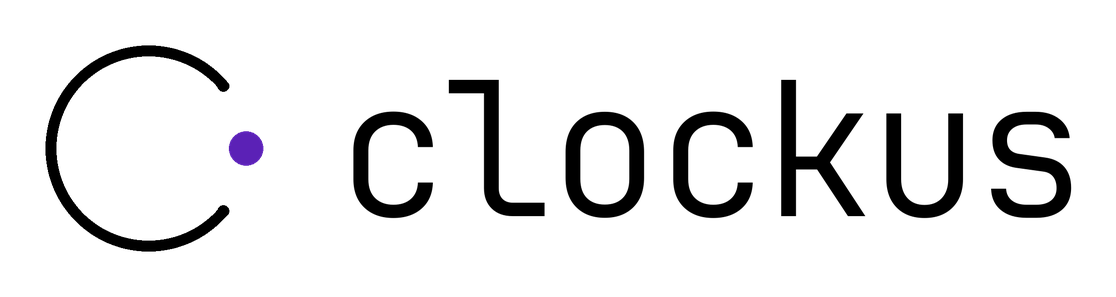
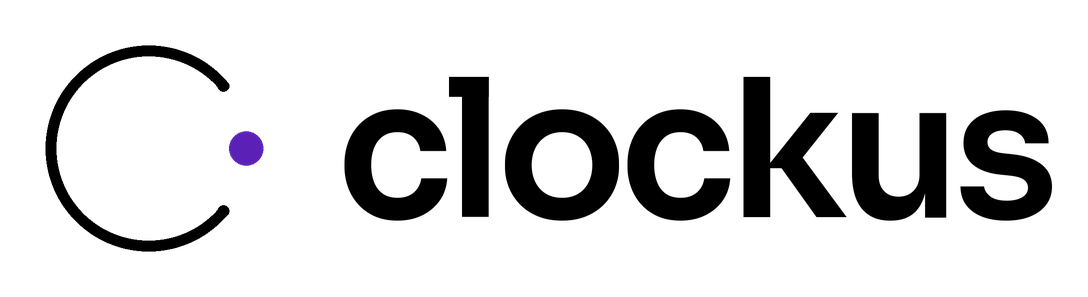
Add files via upload

diff --git a/script.js b/script.js
@@ -137,18 +137,27 @@ statsBtn.addEventListener('click', () => showTab('stats'));
 // ---------- Appearance settings ----------
 const DEFAULT_ACCENT = '#5b21b6';
 const WEIGHT_NAMES = { 100: 'Thin', 200: 'ExtraLight', 300: 'Light', 400: 'Regular', 500: 'Medium', 600: 'SemiBold', 700: 'Bold', 800: 'ExtraBold', 900: 'Black', 1000: 'ExtraBlack' };
+const TEXT_WEIGHTS = [100, 200, 300, 400, 500, 600, 700, 800];
 const FONT_WEIGHTS = {
+    sora: [100, 200, 300, 400, 500, 600, 700, 800],
     inter: [100, 200, 300, 400, 500, 600, 700, 800, 900],
     dmsans: [100, 200, 300, 400, 500, 600, 700, 800, 900, 1000]
 };
-const DEFAULT_WEIGHTS = { inter: 700, dmsans: 400 };
+const DEFAULT_WEIGHTS = { sora: 500, inter: 700, dmsans: 400 };
+const savedUi = store.get('ui', {});
+if (savedUi.v !== 2) {                      // Sora is the new main font: the old default clock font moves to it
+    if (savedUi.font === 'mono') savedUi.font = 'sora';
+    savedUi.v = 2;
+}
 const ui = Object.assign({
-    theme: 'dark', format: '24', seconds: true, font: 'mono', accent: DEFAULT_ACCENT,
+    theme: 'dark', format: '24', seconds: true, font: 'sora', accent: DEFAULT_ACCENT, textWeight: 300, v: 2,
     // Animations follow the system setting for reduced motion until the user chooses
     animations: !(window.matchMedia && window.matchMedia('(prefers-reduced-motion: reduce)').matches)
-}, store.get('ui', {}));
+}, savedUi);
 if (typeof ui.animations !== 'boolean') ui.animations = true;
-if (!['mono', 'inter', 'dmsans'].includes(ui.font)) ui.font = 'mono';
+if (!['sora', 'mono', 'inter', 'dmsans'].includes(ui.font)) ui.font = 'sora';
+if (!TEXT_WEIGHTS.includes(Number(ui.textWeight))) ui.textWeight = 300;
+ui.textWeight = Number(ui.textWeight);
 ui.weights = { ...DEFAULT_WEIGHTS, ...(ui.weights || {}) };
 for (const f of Object.keys(FONT_WEIGHTS)) {
     if (!FONT_WEIGHTS[f].includes(Number(ui.weights[f]))) ui.weights[f] = DEFAULT_WEIGHTS[f];
@@ -159,6 +168,8 @@ const themeSelect = $('theme-select');
 const formatSelect = $('format-select');
 const secondsSwitch = $('seconds-switch');
 const fontSelect = $('font-select');
+const textWeightSelect = $('text-weight-select');
+textWeightSelect.replaceChildren(...TEXT_WEIGHTS.map((w) => new Option(`${WEIGHT_NAMES[w]} (${w})`, String(w))));
 const weightRow = $('weight-row');
 const weightSelect = $('weight-select');
 const animationsSwitch = $('animations-switch');
@@ -183,6 +194,8 @@ function applyUi() {
     formatSelect.value = ui.format;
     secondsSwitch.checked = ui.seconds;
     fontSelect.value = ui.font;
+    textWeightSelect.value = String(ui.textWeight);
+    document.documentElement.style.setProperty('--w', String(ui.textWeight));
     const weights = FONT_WEIGHTS[ui.font];
     weightRow.hidden = !weights;
     if (weights) {
@@ -222,6 +235,7 @@ themeSelect.addEventListener('change', () => changeUi('theme', themeSelect.value
 formatSelect.addEventListener('change', () => changeUi('format', formatSelect.value));
 secondsSwitch.addEventListener('change', () => changeUi('seconds', secondsSwitch.checked));
 fontSelect.addEventListener('change', () => changeUi('font', fontSelect.value));
+textWeightSelect.addEventListener('change', () => changeUi('textWeight', Number(textWeightSelect.value)));
 weightSelect.addEventListener('change', () => changeUi('weights', { ...ui.weights, [ui.font]: Number(weightSelect.value) }));
 animationsSwitch.addEventListener('change', () => changeUi('animations', animationsSwitch.checked));
 swatchBtns.forEach((b) => b.addEventListener('click', () => changeUi('accent', b.dataset.color)));
@@ -1170,7 +1184,10 @@ function applyRemoteSettings(data) {
         ui.theme = data.ui.theme === 'light' ? 'light' : 'dark';
         ui.format = data.ui.format === '12' ? '12' : '24';
         ui.seconds = data.ui.seconds !== false;
-        ui.font = ['inter', 'dmsans'].includes(data.ui.font) ? data.ui.font : 'mono';
+        // saves from before Sora still carry the old default clock font: treat that as the new default
+        const remoteFont = (data.ui.v !== 2 && data.ui.font === 'mono') ? 'sora' : data.ui.font;
+        ui.font = ['sora', 'mono', 'inter', 'dmsans'].includes(remoteFont) ? remoteFont : 'sora';
+        if (TEXT_WEIGHTS.includes(Number(data.ui.textWeight))) ui.textWeight = Number(data.ui.textWeight);
         for (const f of Object.keys(FONT_WEIGHTS)) {
             const w = Number(data.ui.weights && data.ui.weights[f]);
             if (FONT_WEIGHTS[f].includes(w)) ui.weights[f] = w;

diff --git a/styles.css b/styles.css
@@ -8,7 +8,10 @@
     --panel: #0a0a0a;
     --field: #000;
     --hover: rgba(255, 255, 255, 0.1);
-    --mono: 'JetBrains Mono', 'Courier New', monospace;
+    --font: 'Sora', 'Helvetica Neue', Arial, sans-serif;
+    --w: 300;                                  /* general text weight, set from the settings */
+    --w-lo: clamp(100, calc(var(--w) - 100), 800);
+    --w-hi: clamp(100, calc(var(--w) + 100), 800);
     --p0: #ffffff;
     --p1: #d6c8ed;
     --p2: #ad90da;
@@ -28,6 +31,13 @@
     --field: #fff;
     --hover: rgba(0, 0, 0, 0.06);
     color-scheme: light;
+}
+
+:root[data-font="mono"] .clock,
+:root[data-font="mono"] .realtime {
+    font-family: 'JetBrains Mono', 'Courier New', monospace;
+    font-weight: 200;
+    letter-spacing: -0.04em;
 }
 
 :root[data-font="inter"] .clock,
@@ -53,8 +63,8 @@ body {
     padding: 0 20px 48px;
     background: var(--bg);
     color: var(--text);
-    font-family: var(--mono);
-    font-weight: 300;
+    font-family: var(--font);
+    font-weight: var(--w);
     display: flex;
     flex-direction: column;
     align-items: center;
@@ -66,7 +76,8 @@ body {
     outline-offset: 3px;
 }
 
-button { font-family: var(--mono); cursor: pointer; }
+button { font-family: var(--font); cursor: pointer; }
+button, input, select { font-weight: inherit; }
 
 /* ---------- Nav ---------- */
 .nav {
@@ -98,8 +109,8 @@ button { font-family: var(--mono); cursor: pointer; }
 /* ---------- Clock ---------- */
 .clock {
     font-size: clamp(4.5rem, 22vw, 10rem);
-    font-weight: 200;
-    letter-spacing: -0.04em;
+    font-weight: var(--clock-weight, 500);
+    letter-spacing: -0.045em;
     font-variant-numeric: tabular-nums;
     line-height: 1;
     margin: clamp(36px, 9vh, 80px) 0 28px;
@@ -111,8 +122,8 @@ body[data-mode="break"] .clock { color: var(--muted); }
 .realtime {
     display: none;
     font-size: max(3rem, min(14rem, calc((100vw - 40px) / var(--fit, 5.4))));
-    font-weight: 200;
-    letter-spacing: -0.04em;
+    font-weight: var(--clock-weight, 500);
+    letter-spacing: -0.045em;
     font-variant-numeric: tabular-nums;
     line-height: 1;
 }
@@ -122,7 +133,7 @@ body[data-mode="break"] .clock { color: var(--muted); }
 .rt-ampm {
     margin-left: 0.6em;
     font-size: 0.2em;
-    font-weight: 400;
+    font-weight: var(--w-hi);
     letter-spacing: 0;
     color: var(--muted);
 }
@@ -461,14 +472,14 @@ body[data-tab="focus"] .stage { width: auto; max-width: 100%; }
     margin-bottom: 28px;
 }
 
-.panel h2 { margin: 0; font-size: 1rem; font-weight: 400; }
+.panel h2 { margin: 0; font-size: 1rem; font-weight: var(--w-hi); }
 
 .panel-section { margin-bottom: 28px; }
 
 .panel-section h3 {
     margin: 0 0 12px;
     font-size: 0.75rem;
-    font-weight: 400;
+    font-weight: var(--w-hi);
     letter-spacing: 0.08em;
     color: var(--muted);
 }
@@ -656,7 +667,7 @@ kbd {
 .stat-value {
     margin: 6px 0;
     font-size: clamp(1.6rem, 7vw, 2.75rem);
-    font-weight: 200;
+    font-weight: var(--w-lo);
     letter-spacing: -0.04em;
     white-space: nowrap;
 }
@@ -871,7 +882,7 @@ kbd {
 
 .stat-unit {
     font-size: 0.875rem;
-    font-weight: 300;
+    font-weight: var(--w);
     letter-spacing: 0;
     color: var(--muted);
 }
@@ -966,7 +977,7 @@ body[data-tab="focus"] .settings { margin-top: 28px; }
     transition: color 0.2s;
 }
 
-.current-line b { font-weight: 400; color: var(--text); }
+.current-line b { font-weight: var(--w-hi); color: var(--text); }
 .current-line:hover { color: var(--text); }
 
 .cur-btn {
@@ -989,7 +1000,7 @@ body[data-tab="focus"] .settings { margin-top: 28px; }
 .cur-btn:disabled { opacity: 0.25; cursor: default; }
 .todo-item.current .cur-btn path { stroke: var(--text); }
 .todo-item.current .cur-btn circle { fill: var(--p3); }
-.todo-item.current label span { font-weight: 400; }
+.todo-item.current label span { font-weight: var(--w-hi); }
 
 /* ---------- Clean mode ---------- */
 .nav, #settings-btn, .below { transition: opacity 0.35s ease; }

diff --git a/app.html b/app.html
@@ -11,13 +11,14 @@
     <link rel="manifest" href="manifest.webmanifest">
     <link rel="preconnect" href="https://fonts.googleapis.com">
     <link rel="preconnect" href="https://fonts.gstatic.com" crossorigin>
-    <link href="https://fonts.googleapis.com/css2?family=JetBrains+Mono:wght@200;300;400&display=swap" rel="stylesheet">
+    <link href="https://fonts.googleapis.com/css2?family=Sora:wght@100..800&display=swap" rel="stylesheet">
+    <link href="https://fonts.googleapis.com/css2?family=JetBrains+Mono:wght@200&display=swap" rel="stylesheet">
     <link href="https://fonts.googleapis.com/css2?family=Inter:wght@100;200;300;400;500;600;700;800;900&display=swap" rel="stylesheet">
     <link href="https://fonts.googleapis.com/css2?family=DM+Sans:wght@100;200;300;400;500;600;700;800;900&display=swap" rel="stylesheet">
     <link href="https://fonts.googleapis.com/css2?family=DM+Sans:wght@1000&display=swap" rel="stylesheet">
-    <script>try{var u=JSON.parse(localStorage.getItem('ui')||'{}');document.documentElement.dataset.theme=u.theme||'dark';var f=(u.font==='inter'||u.font==='dmsans')?u.font:'mono';document.documentElement.dataset.font=f;var w=u.weights&&u.weights[f];if(w)document.documentElement.style.setProperty('--clock-weight',w);}catch(e){}</script>
+    <script>try{var u=JSON.parse(localStorage.getItem('ui')||'{}');var r=document.documentElement;r.dataset.theme=u.theme||'dark';var f=['sora','mono','inter','dmsans'].indexOf(u.font)>-1?u.font:'sora';if(u.v!==2&&u.font==='mono')f='sora';r.dataset.font=f;var w=u.weights&&u.weights[f];if(w)r.style.setProperty('--clock-weight',w);if(u.textWeight)r.style.setProperty('--w',u.textWeight);}catch(e){}</script>
     <script>window.addEventListener('error',function(e){var el=document.getElementById('build-info');var msg=' \u00b7 Error: '+e.message+' (line '+(e.lineno||'?')+')';if(el&&el.textContent.indexOf(msg)<0){el.textContent+=msg;}});</script>
-    <link rel="stylesheet" href="styles.css?v=19">
+    <link rel="stylesheet" href="styles.css?v=20">
 </head>
 <body data-mode="focus" data-tab="clock">
     <div class="nav">
@@ -149,9 +150,11 @@
                 <select id="format-select"><option value="24">24h</option><option value="12">12h</option></select></div>
             <div class="setting-row"><span>Show seconds</span>
                 <input type="checkbox" class="switch" id="seconds-switch" checked></div>
+            <div class="setting-row"><span>Text weight</span>
+                <select id="text-weight-select"></select></div>
             <div class="setting-row"><span>Clock font</span>
-                <select id="font-select"><option value="mono">Mono</option><option value="inter">Inter</option><option value="dmsans">DM Sans</option></select></div>
-            <div class="setting-row" id="weight-row" hidden><span>Weight</span>
+                <select id="font-select"><option value="sora">Sora</option><option value="mono">Mono</option><option value="inter">Inter</option><option value="dmsans">DM Sans</option></select></div>
+            <div class="setting-row" id="weight-row" hidden><span>Clock weight</span>
                 <select id="weight-select"></select></div>
             <div class="setting-row"><span>Animations</span>
                 <input type="checkbox" class="switch" id="animations-switch" checked></div>
@@ -202,10 +205,10 @@
             <div class="setting-row"><span>Clear all data</span>
                 <button class="preset" disabled>Clear</button></div>
         </section>
-        <p class="panel-note" id="build-info">Version 19</p>
+        <p class="panel-note" id="build-info">Version 20</p>
     </aside>
 
     <script src="https://cdn.jsdelivr.net/npm/@supabase/supabase-js@2.45.4/dist/umd/supabase.min.js"></script>
-    <script src="script.js?v=19"></script>
+    <script src="script.js?v=20"></script>
 </body>
 </html>

diff --git a/welcome.css b/welcome.css
@@ -6,7 +6,7 @@
     --line: #2b2b2b;
     --line-soft: #1c1c1c;
     --line-strong: #5a5a5a;
-    --mono: 'JetBrains Mono', 'Courier New', monospace;
+    --font: 'Sora', 'Helvetica Neue', Arial, sans-serif;
     --p0: #ffffff;
     --p1: #d6c8ed;
     --p2: #ad90da;
@@ -22,7 +22,7 @@ body {
     margin: 0;
     background: var(--bg);
     color: var(--text);
-    font-family: var(--mono);
+    font-family: var(--font);
     font-weight: 300;
     line-height: 1.5;
     -webkit-font-smoothing: antialiased;
@@ -48,7 +48,7 @@ ul { padding: 0; list-style: none; }
 }
 
 .topbar-inner { display: flex; justify-content: space-between; align-items: center; padding-top: 18px; padding-bottom: 18px; }
-.logo { display: flex; align-items: center; gap: 10px; font-size: 1.25rem; font-weight: 300; letter-spacing: -0.03em; line-height: 1; }
+.logo { display: flex; align-items: center; gap: 10px; font-size: 1.25rem; font-weight: 600; letter-spacing: -0.04em; line-height: 1; }
 .logo svg { flex: none; width: 26px; height: 26px; }
 .nav-links { display: flex; align-items: center; gap: 32px; font-size: 0.8125rem; }
 .nav-links .link { color: var(--muted); transition: color 0.2s; }
@@ -88,7 +88,7 @@ ul { padding: 0; list-style: none; }
 h1 {
     margin: 24px 0;
     font-size: clamp(2.6rem, 8vw, 4rem);
-    font-weight: 200;
+    font-weight: 300;
     letter-spacing: -0.04em;
     line-height: 1.05;
 }
@@ -123,8 +123,8 @@ h1 {
 .timer-clock {
     margin: 44px 0 28px;
     font-size: clamp(4.2rem, 20vw, 6.5rem);
-    font-weight: 200;
-    letter-spacing: -0.04em;
+    font-weight: 500;
+    letter-spacing: -0.045em;
     line-height: 1;
 }
 
@@ -149,7 +149,7 @@ h2 {
     margin: 16px 0 40px;
     max-width: 700px;
     font-size: clamp(1.8rem, 5vw, 2.25rem);
-    font-weight: 200;
+    font-weight: 300;
     letter-spacing: -0.03em;
     line-height: 1.2;
 }
@@ -178,7 +178,7 @@ h2 {
     border-radius: 16px;
 }
 
-.streak-n { font-size: 1.625rem; font-weight: 200; letter-spacing: -0.03em; }
+.streak-n { font-size: 1.625rem; font-weight: 400; letter-spacing: -0.03em; }
 .streak-sub { margin-top: 2px; font-size: 0.75rem; color: var(--muted); }
 
 .map-card {

diff --git a/index.html b/index.html
@@ -30,8 +30,8 @@
     </script>
     <link rel="preconnect" href="https://fonts.googleapis.com">
     <link rel="preconnect" href="https://fonts.gstatic.com" crossorigin>
-    <link href="https://fonts.googleapis.com/css2?family=JetBrains+Mono:wght@200;300;400&display=swap" rel="stylesheet">
-    <link rel="stylesheet" href="welcome.css?v=3">
+    <link href="https://fonts.googleapis.com/css2?family=Sora:wght@100..800&display=swap" rel="stylesheet">
+    <link rel="stylesheet" href="welcome.css?v=4">
 </head>
 <body>
     <header class="topbar">
